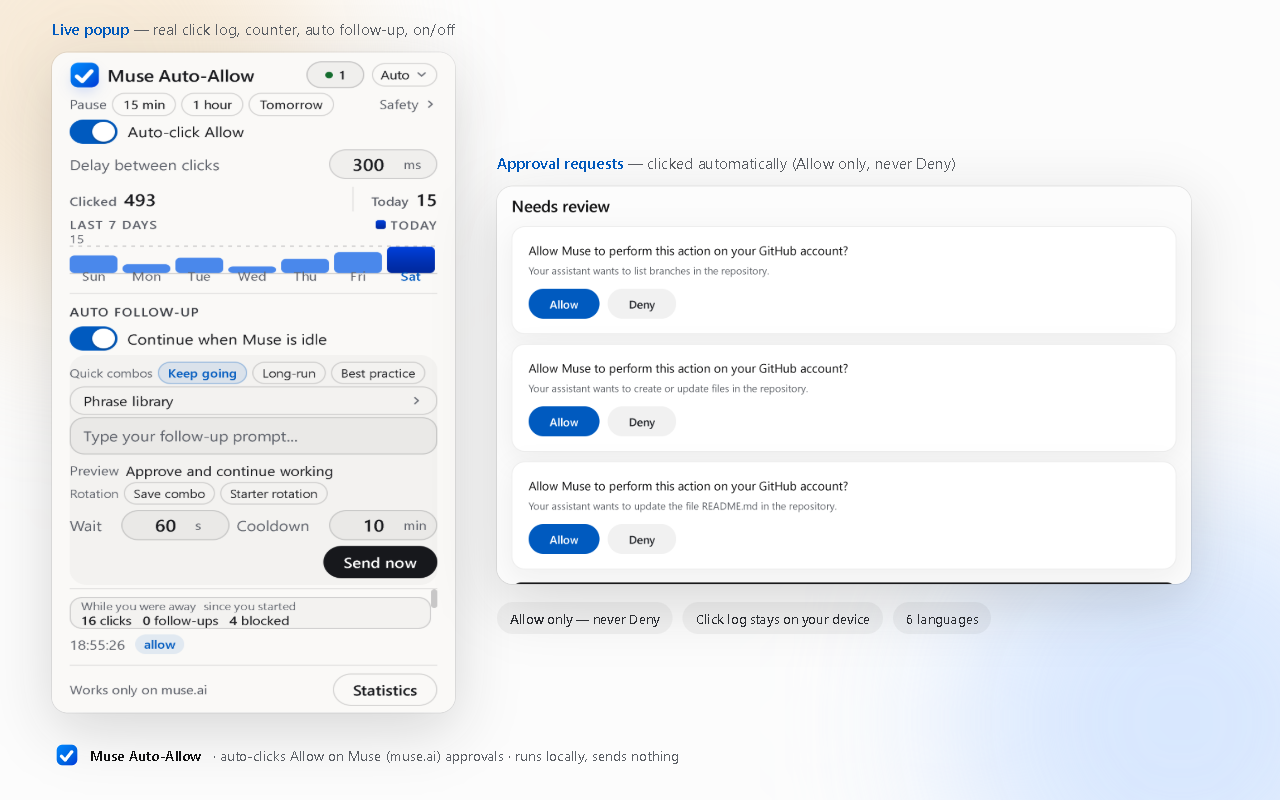
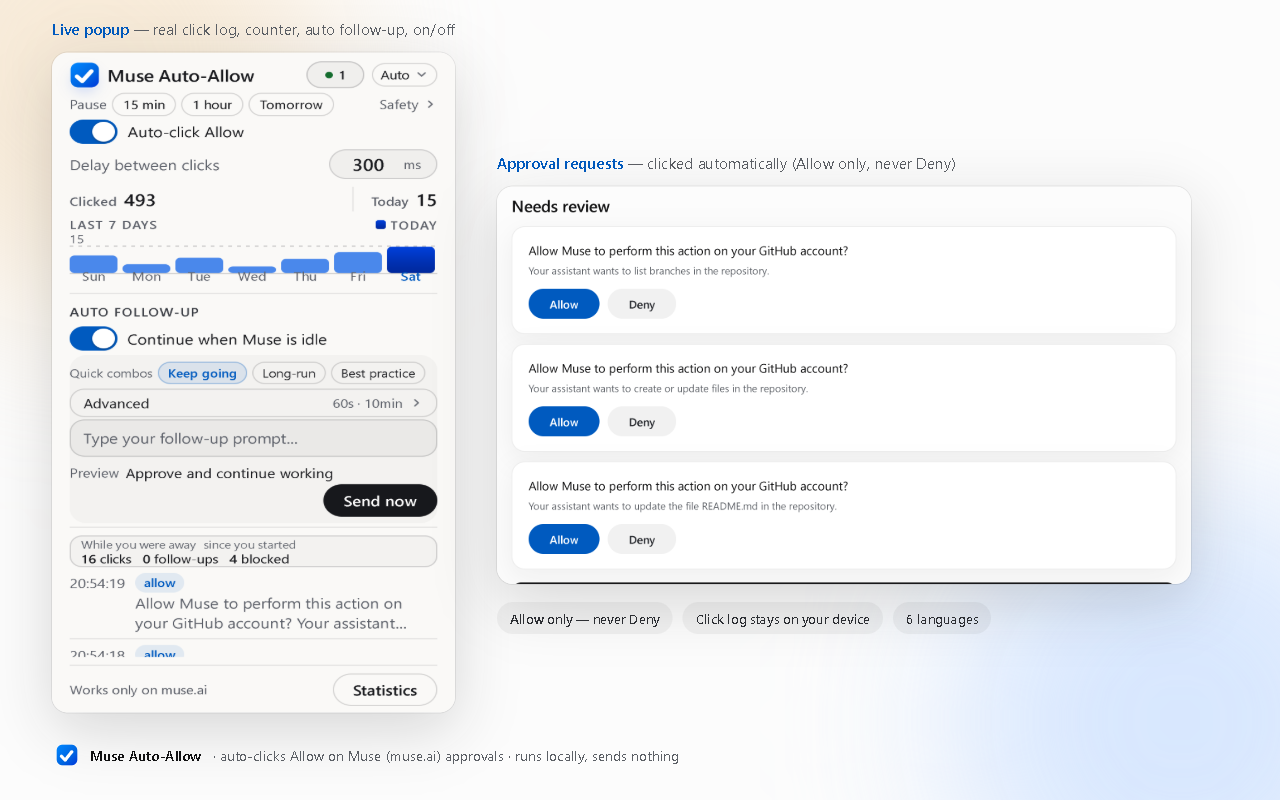
feat(popup): progressive disclosure for the follow-up advanced settings
One keyboard-accessible disclosure (#fadvbtn -> #fadv, aria-expanded + aria-controls,
Enter/Space opens, Escape closes and returns focus, state persisted as followupAdvancedOpen)
now holds the rows a user touches once: rotation, wait/cooldown, and the phrase-library entry.
The flagship controls stay visible (follow-up toggle, prompt, live preview, Send now) and a
compact collapsed summary shows the live state (Next: i/n + wait/cooldown, reusing the
existing followupRotateNext key), so nothing is invisible. The full-popup Safety sheet keeps
its exact geometry (CSS y 305..555 unchanged).
Deterministic acceptance: empty collapsed height 515px (was 571) with total-foot 509; every
state <=600 (full log 600, disclosure open 600, phrase sheet open 600, safety overlay 515,
language menu 515, wizard 515, follow-up-off gated 426); document.scrollWidth 320 in every
state; i18n worst-case sweep across en/vi/zh_CN/ja/ko/es keeps max right edge at the 306
content column with the summary never clipped (one new key followupAdvanced x6 locales, en
now 148 keys, parity green); changed contrast pairs pixel-measured in the real render (label
--ink on panel 15.86:1 light / 14.20:1 dark, summary --muted 5.63 / 7.16, chevron 4.51 /
6.07; the button's border hairline 1.39 / 1.59 is decorative and the state is carried by
aria-expanded + the chevron rotation, never by the border). Keyboard path proven with trusted
[…]

Changed region(s): [[0.0625, 0.5, 0.3438, 0.8438]]

diff --git a/extension/popup.js b/extension/popup.js
@@ -193,6 +193,9 @@ let fRotItems = [];     // followupPrompts from storage (rotation list)
 let fRotIdx = 0;        // followupRotateIdx from storage
 let fGroupSaveFlash = false; // transient 'added' confirmation on the per-group save button
 let fGroupSaveTimer = null;
+let advancedOpen = false;    // progressive disclosure: persisted `followupAdvancedOpen` (default collapsed)
+let fIdleMs = 60000;         // followupIdleMs, mirrored for the collapsed summary
+let fCoolMs = 600000;        // followupCooldownMs, mirrored for the collapsed summary
 const fTextarea = () => $('fprompt');
 
 function fPreviewText() {
@@ -327,8 +330,43 @@ function fRender() {
   if (fSheetMode === 'rotation') fRenderRotList();
   const btn = $('flibbtn');
   if (btn) btn.setAttribute('aria-expanded', fSheetMode ? 'true' : 'false');
+  renderAdvancedSummary();
 }
-function fSheet(next) { fSheetMode = next; fRender(); }
+// ---- progressive disclosure: the follow-up settings a user touches once ----------
+// applyAdvancedUI reflects the persisted open state onto the group + its disclosure
+// button; while collapsed the button also carries a one-line summary of what is hidden
+// (rotation position + wait/cooldown), so nothing is invisible.
+function renderAdvancedSummary() {
+  const el = $('fadvsum');
+  if (!el) return;
+  const parts = [];
+  const n = fRotItems.length;
+  if (n) {
+    let idx = ((fRotIdx % n) + n) % n;
+    if (fAgg && fAgg.rotateCount === n && Number.isFinite(fAgg.rotateIdx)) idx = ((fAgg.rotateIdx % n) + n) % n;
+    parts.push(t('followupRotateNext', 'Next: $1/$2', [String(idx + 1), String(n)]));
+  }
+  parts.push(Math.max(1, Math.round(fIdleMs / 1000)) + 's');
+  parts.push(Math.max(1, Math.round(fCoolMs / 60000)) + 'min');
+  el.textContent = parts.join(' · ');
+}
+function applyAdvancedUI() {
+  const grp = $('fadv'), btn = $('fadvbtn'), sum = $('fadvsum');
+  const gated = !!($('followupEnabled') && !$('followupEnabled').checked);
+  const open = advancedOpen && !gated;
+  if (grp) grp.hidden = !open;
+  if (btn) btn.setAttribute('aria-expanded', open ? 'true' : 'false');
+  if (sum) sum.hidden = open; // the summary describes the HIDDEN state
+  renderAdvancedSummary();
+}
+function setAdvancedOpen(v) {
+  const next = !!v;
+  const changed = next !== advancedOpen;
+  advancedOpen = next;
+  applyAdvancedUI();
+  if (changed) { try { chrome.storage.local.set({ followupAdvancedOpen: next }); } catch { /* ignore */ } }
+}
+function fSheet(next) { fSheetMode = next; if (next) setAdvancedOpen(true); fRender(); }
 function applyFollowupUI(s) {
   const on = s.followupEnabled === true;
   const cb = $('followupEnabled');
@@ -362,10 +400,12 @@ function applyFollowupUI(s) {
   // ---- rotation list ----
   fRotItems = Array.isArray(s.followupPrompts) ? s.followupPrompts.filter((p) => typeof p === 'string' && p.trim()) : [];
   fRotIdx = Number.isInteger(s.followupRotateIdx) && s.followupRotateIdx >= 0 ? s.followupRotateIdx : 0;
+  fIdleMs = Number(s.followupIdleMs) || 60000;
+  fCoolMs = Number(s.followupCooldownMs) || 600000;
   const idle = $('fidle');
-  if (idle && document.activeElement !== idle) idle.value = Math.max(1, Math.round((Number(s.followupIdleMs) || 60000) / 1000));
+  if (idle && document.activeElement !== idle) idle.value = Math.max(1, Math.round(fIdleMs / 1000));
   const cool = $('fcool');
-  if (cool && document.activeElement !== cool) cool.value = Math.max(1, Math.round((Number(s.followupCooldownMs) || 600000) / 60000));
+  if (cool && document.activeElement !== cool) cool.value = Math.max(1, Math.round(fCoolMs / 60000));
   const btn = $('fsendnow');
   if (btn) {
     btn.disabled = !on;
@@ -382,7 +422,10 @@ function applyFollowupUI(s) {
   }
   const hint = $('fhint');
   if (hint) hint.hidden = on;
+  // progressive disclosure: the group's open state comes from storage (default collapsed)
+  advancedOpen = s.followupAdvancedOpen === true;
   fRender();
+  applyAdvancedUI();
   renderFollowupStatus(fAgg); // the toggle re-words the pill (Waiting vs Idle)
 }
 // Status pill: informative states only — Working / Sent HH:MM / Waiting (armed) / Idle.
@@ -405,6 +448,7 @@ function fstatHide() {
 function renderFollowupStatus(agg) {
   fAgg = agg || null;
   fRenderRot(); // the ping is the freshest source for the 'Next: i/n' line
+  renderAdvancedSummary(); // ... and for the collapsed summary of the hidden state
   const cb = $('followupEnabled');
   const on = !!(cb && cb.checked);
   if (!agg) return fstatHide();
@@ -593,7 +637,7 @@ function refresh() {
   // followupSmart, followupSchedule, digestCounters) — absent = the engine's default.
   chrome.storage.local.get({ enabled: true, minDelayMs: 300, clickCount: 0, log: [], stats: null,
     followupEnabled: false, followupPrompt: PRESETS[0], followupIdleMs: 60000, followupCooldownMs: 600000,
-    followupChips: null, followupPrompts: [], followupRotateIdx: 0,
+    followupChips: null, followupPrompts: [], followupRotateIdx: 0, followupAdvancedOpen: false,
     pauseUntil: 0, dryRun: false, allowOnceMode: false, rules: null, followupSmart: null, followupSchedule: null,
     syncSettings: false, onboarded: false, digestCounters: null, lastDigestAt: 0 }, (s) => {
     $('enabled').checked = s.enabled !== false;
@@ -1080,6 +1124,12 @@ if (fTa) {
 }
 $('flibbtn').addEventListener('click', () => fSheet(fSheetMode === 'library' ? '' : 'library'));
 $('frotnext').addEventListener('click', () => fSheet(fSheetMode === 'rotation' ? '' : 'rotation'));
+// progressive disclosure: one control reveals the settings a user touches once
+$('fadvbtn').addEventListener('click', () => {
+  const next = !advancedOpen;
+  if (!next) fSheet(''); // collapsing the group closes any sheet it owns
+  setAdvancedOpen(next);
+});
 $('ftabs').addEventListener('click', (e) => {
   const b = e.target.closest('[data-g]');
   if (b) { fTab = b.dataset.g; fRender(); }
@@ -1170,7 +1220,9 @@ document.addEventListener('click', (e) => {
 document.addEventListener('keydown', (e) => {
   if (e.key !== 'Escape') return;
   if (safetyOpen) { setSafety(false); return; } // v1.8.0: Escape closes the Safety panel first
-  if (fSheetMode) fSheet('');
+  if (fSheetMode) { fSheet(''); return; }       // then the phrase-library sheet
+  // progressive disclosure: Escape closes the Advanced group and returns focus to its button
+  if (advancedOpen) { setAdvancedOpen(false); const b = $('fadvbtn'); if (b) b.focus(); }
 });
 $('fidle').addEventListener('change', () => {
   const v = Math.max(1, Math.min(3600, Math.round(Number($('fidle').value) || 60)));

diff --git a/extension/popup.html b/extension/popup.html
@@ -167,7 +167,8 @@
   /* off = collapsed settings + the disabled Send-now pill (explicit treatment + tooltip);
      the tinted panel shows only while the settings are open */
   .fpanel.gated { background: transparent; }
-  .fpanel.gated > .fblock:not(.sendrow), .fpanel.gated > .row, .fpanel.gated > .fsheet { display: none; }
+  .fpanel.gated > .fblock:not(.sendrow), .fpanel.gated > .row, .fpanel.gated > .fsheet,
+  .fpanel.gated > .fadvgroup { display: none; }
   .fblock { margin: 2px 0; }
   .fblock:first-child { margin-top: 0; }
   .fblock:last-child { margin-bottom: 0; }
@@ -213,6 +214,26 @@
   .flibbtn[aria-expanded="true"] .chev { transform: rotate(0deg); }
   .fcount { font-size: 10.5px; font-weight: 500; padding: 0 6px; border-radius: 999px;
             background: var(--accent-tint); color: var(--accent-text); }
+  /* Progressive disclosure — ONE control hides the follow-up settings a user touches
+     once (phrase library, rotation, wait/cooldown), so the popup opens calm; the
+     flagship controls (toggle, prompt, preview, Send now) stay visible. It is a real
+     button (aria-expanded + aria-controls), keyboard operable, Escape closes it and
+     returns focus; the open state persists (storage `followupAdvancedOpen`). While
+     collapsed it carries a compact one-line summary of what is hidden, so nothing is
+     invisible. Spacing sits on the spec ladder (margin 4 / 2, padding 3px 10px). */
+  .fadvhead { margin: 4px 0 0; }
+  .fadvbtn { display: flex; align-items: center; gap: 6px; width: 100%; box-sizing: border-box;
+             font: inherit; font-size: 12px; text-align: left; background: transparent; color: var(--ink);
+             border: 1px solid var(--stroke); border-radius: 12px; padding: 3px 10px; cursor: pointer;
+             transition: background var(--dur-1) var(--ease-out), border-color var(--dur-1) var(--ease-out); }
+  .fadvbtn:hover { background: var(--fill); border-color: var(--stroke-hover); }
+  .fadvlabel { flex: none; }
+  /* the collapsed summary: one line, tabular, ellipsised — it can never push the row */
+  .fadvsum { flex: 1 1 auto; min-width: 0; text-align: right; font-size: 11px; color: var(--muted);
+             overflow: hidden; text-overflow: ellipsis; white-space: nowrap; font-variant-numeric: tabular-nums; }
+  .fadvbtn .chev { margin-left: 0; color: var(--muted); transform: rotate(-90deg); }
+  .fadvbtn[aria-expanded="true"] .chev { transform: rotate(0deg); }
+  .fadvgroup { margin: 2px 0 0; }
   /* the library/list sheet overlays the rows below it, so the popup height never grows
      while browsing (W1 discipline: <=600px). The sheet CLIPS to its own box and the
      phrase/selection area scrolls internally, so a long selection can never push the
@@ -490,6 +511,14 @@
         <button type="button" class="qbtn" id="fq1" data-i18n="followupQuick2">Long-run</button>
         <button type="button" class="qbtn" id="fq2" data-i18n="followupQuick3">Best practice</button>
       </div>
+      <div class="fblock fadvhead">
+        <button type="button" class="fadvbtn" id="fadvbtn" aria-expanded="false" aria-controls="fadv">
+          <span class="fadvlabel" data-i18n="followupAdvanced">Advanced</span>
+          <span class="fadvsum" id="fadvsum"></span>
+          <svg class="chev" viewBox="0 0 24 24" aria-hidden="true"><path d="M6 9l6 6 6-6" fill="none" stroke-width="2.6" stroke-linecap="round" stroke-linejoin="round"/></svg>
+        </button>
+      </div>
+      <div class="fadvgroup" id="fadv" hidden>
       <div class="fblock">
         <button type="button" class="flibbtn" id="flibbtn" aria-expanded="false" aria-controls="flibsheet">
           <span data-i18n="followupLibrary">Phrase library</span><span class="fcount" id="flibcount" hidden></span>
@@ -508,8 +537,6 @@
         </div>
         <div class="fprev"><span class="plabel" data-i18n="followupPreview">Preview</span><span class="fprevtext" id="fprevA"></span></div>
       </div>
-      <div class="fblock"><textarea id="fprompt" class="tbox" rows="1" placeholder="Type your follow-up prompt…" data-i18n-ph="followupCustomPlaceholder"></textarea></div>
-      <div class="fblock fprev"><span class="plabel" data-i18n="followupPreview">Preview</span><span class="fprevtext" id="fprevB" aria-live="polite" aria-atomic="true"></span></div>
       <div class="fblock frot" id="frotrow">
         <span class="fqlabel muted" data-i18n="followupRotateLabel">Rotation</span>
         <button type="button" class="qbtn" id="frotadd" data-i18n="followupRotateSave">Save combo</button>
@@ -522,6 +549,9 @@
         <label class="muted" for="fcool" data-i18n="followupCooldownShort">Cooldown</label>
         <span class="numwrap"><input type="number" id="fcool" min="1" max="1440" step="1"><span class="unit muted">min</span></span>
       </div>
+      </div>
+      <div class="fblock"><textarea id="fprompt" class="tbox" rows="1" placeholder="Type your follow-up prompt…" data-i18n-ph="followupCustomPlaceholder"></textarea></div>
+      <div class="fblock fprev"><span class="plabel" data-i18n="followupPreview">Preview</span><span class="fprevtext" id="fprevB" aria-live="polite" aria-atomic="true"></span></div>
       <div class="fblock sendrow" id="fsendrow"><span class="fsendnote" id="fsendnote" role="status"></span><button class="btn" id="fsendnow" data-i18n="followupSendNow">Send now</button></div>
     </div>
   </div>

diff --git a/assets/quiet-luxury-mockup.html b/assets/quiet-luxury-mockup.html
@@ -146,6 +146,16 @@
   .fcount { font-size: 10.5px; font-weight: 500; padding: 0 6px; border-radius: 999px;
             background: var(--accent-tint); color: var(--accent-text); }
   .flibbtn .chev { margin-left: auto; color: var(--muted); }
+  /* progressive disclosure: one control hides the follow-up settings a user touches once
+     (phrase library, rotation, wait/cooldown); collapsed it carries a one-line summary */
+  .fadvhead { margin-top: 7px; }
+  .fadvbtn { display: flex; align-items: center; gap: 6px; width: 100%; box-sizing: border-box; font: inherit;
+             font-size: 12px; text-align: left; background: transparent; color: var(--ink);
+             border: 1px solid var(--stroke); border-radius: 12px; padding: 4px 10px; cursor: pointer; }
+  .fadvlabel { flex: none; }
+  .fadvsum { flex: 1 1 auto; min-width: 0; text-align: right; font-size: 11px; color: var(--muted);
+             overflow: hidden; text-overflow: ellipsis; white-space: nowrap; font-variant-numeric: tabular-nums; }
+  .fadvbtn .chev { transform: rotate(-90deg); }
   .chev { width: 11px; height: 11px; flex: none; display: block; color: var(--muted); opacity: .9; }
   .chev path { stroke: currentColor; }
   .tbox { width: 100%; margin-top: 7px; background: var(--fill); color: var(--ink); border: 1px solid var(--stroke);
@@ -291,16 +301,11 @@
           <div class="fpanel">
             <div class="fquick"><span class="fqlabel muted">Quick combos</span>
               <button class="qbtn on">Keep going</button><button class="qbtn">Long-run</button><button class="qbtn">Best practice</button></div>
-            <button class="flibbtn">Phrase library<span class="fcount">4</span><svg class="chev" viewBox="0 0 24 24"><path d="M6 9l6 6 6-6" fill="none" stroke-width="2.6" stroke-linecap="round" stroke-linejoin="round"/></svg></button>
+            <div class="fadvhead">
+              <button class="fadvbtn"><span class="fadvlabel">Advanced</span><span class="fadvsum">Next: 1/3 &middot; 60s &middot; 10min</span><svg class="chev" viewBox="0 0 24 24"><path d="M6 9l6 6 6-6" fill="none" stroke-width="2.6" stroke-linecap="round" stroke-linejoin="round"/></svg></button>
+            </div>
             <textarea class="tbox" rows="1" placeholder="Type your follow-up prompt&hellip;"></textarea>
             <div class="fprev"><span class="plabel">Preview</span><span class="ptext">Approve and continue working</span></div>
-            <div class="frot"><span class="fqlabel muted">Rotation</span>
-              <button class="qbtn">Save combo</button><button class="qbtn">Starter rotation</button>
-              <span class="frotnext">Next: 1/3</span></div>
-            <div class="frow fset"><span class="muted">Wait</span>
-              <span class="numwrap">60<span class="unit">s</span></span>
-              <span class="muted">Cooldown</span>
-              <span class="numwrap">10<span class="unit">min</span></span></div>
             <div class="sendrow"><button class="btn">Send now</button></div>
           </div>
         </div>
@@ -377,16 +382,11 @@
           <div class="fpanel">
             <div class="fquick"><span class="fqlabel muted">Quick combos</span>
               <button class="qbtn on">Keep going</button><button class="qbtn">Long-run</button><button class="qbtn">Best practice</button></div>
-            <button class="flibbtn">Phrase library<span class="fcount">4</span><svg class="chev" viewBox="0 0 24 24"><path d="M6 9l6 6 6-6" fill="none" stroke-width="2.6" stroke-linecap="round" stroke-linejoin="round"/></svg></button>
+            <div class="fadvhead">
+              <button class="fadvbtn"><span class="fadvlabel">Advanced</span><span class="fadvsum">Next: 1/3 &middot; 60s &middot; 10min</span><svg class="chev" viewBox="0 0 24 24"><path d="M6 9l6 6 6-6" fill="none" stroke-width="2.6" stroke-linecap="round" stroke-linejoin="round"/></svg></button>
+            </div>
             <textarea class="tbox" rows="1" placeholder="Type your follow-up prompt&hellip;"></textarea>
             <div class="fprev"><span class="plabel">Preview</span><span class="ptext">Approve and continue working</span></div>
-            <div class="frot"><span class="fqlabel muted">Rotation</span>
-              <button class="qbtn">Save combo</button><button class="qbtn">Starter rotation</button>
-              <span class="frotnext">Next: 1/3</span></div>
-            <div class="frow fset"><span class="muted">Wait</span>
-              <span class="numwrap">60<span class="unit">s</span></span>
-              <span class="muted">Cooldown</span>
-              <span class="numwrap">10<span class="unit">min</span></span></div>
             <div class="sendrow"><button class="btn">Send now</button></div>
           </div>
         </div>

diff --git a/docs/QUIET_LUXURY_SPEC.md b/docs/QUIET_LUXURY_SPEC.md
@@ -417,5 +417,83 @@ Phase 1) and the Statistics page **5/10** (recorded 9/10) — the whole scale si
 the run the Phase-2 calibration used, and the same popup render swung 6 → 4 → 7 → 3 premium across four
 rounds (one pass hallucinated a "vour" typo that is not in the DOM). What the rounds *do* show is a
 real craft gain on the axis the tokens could not reach: light craft **8/10** (twice) vs the 4/10 the
-baseline re-skin scored, with the recurring defects now being frozen-intent items (pill language,
+the baseline re-skin scored, with the recurring defects now being frozen-intent items (pill language,
 no per-bar values, uppercase captions) rather than composition breakage.
+
+---
+
+## 11. Progressive disclosure — the follow-up ADVANCED group (2026-10-10)
+
+**Decision (defaulted, documented).** The owner was asked which direction to take the popup and did
+not answer; the defaulted decision is **progressive disclosure** — keep the top of the popup calm and
+move the follow-up settings a user touches once behind ONE disclosure. This addresses the recurring
+independent-review complaint ("it reads like a dense dashboard, not a premium popup") without touching
+the already-verified composition pass (`555f9f0`).
+
+**Scope.** Flagship controls stay visible: the follow-up toggle, the quick combos, the prompt
+textarea, the live preview, `Send now`. Behind the disclosure: the **rotation row**, the
+**wait/cooldown inputs** and the **`Phrase library` entry** (with its sheet).
+
+**Control.** `.fadvbtn` — a real `<button>` with `aria-expanded` + `aria-controls="fadv"`; keyboard
+operable (Tab reaches it; Enter/Space toggle), **Escape closes it and returns focus to the button**.
+State persists in the new storage key **`followupAdvancedOpen`** (default `false`).
+
+**Collapsed summary.** While collapsed the button carries a one-line summary of the hidden state —
+rotation position + wait/cooldown, composed from the EXISTING key `followupRotateNext` plus the unit
+glyphs: `Next: 1/3 · 60s · 10min`. Nothing is invisible. **One new i18n key** was unavoidable for the
+label (`followupAdvanced`, added to all 6 locales, parity green); the summary reuses existing keys.
+
+**Spacing.** The new row sits on the §2.5 ladder (margin 4/2, padding 3px 10px). Net effect is
+**shorter**: the follow-up-ON empty state measures **515px body / 509px total** (was 571 / 565) and
+every crowded state stays at the 600 cap.
+
+**Sheet geometry preserved.** `.fsheet` keeps `position:absolute; top:30px` against its `.fpanel`
+containing block, so it stays exactly where the verified `555f9f0` pass put it (305…555). Opening the
+sheet forces the group open (`fSheet(next)` → `setAdvancedOpen(true)`), so the library can never be
+reachable inside a collapsed group.
+
+### 11.1 Measured heights (≤600 in every state)
+
+| State | body | total (foot bottom) |
+|---|---|---|
+| empty (collapsed, default) | **515** | **509** |
+| full 12-entry log | 600 | 594 |
+| disclosure open | 600 | 594 |
+| phrase-library sheet open | 600 | 594 |
+| Safety overlay open | 515 | 509 |
+| language menu open | 515 | 509 |
+| onboarding wizard | 515 | 509 |
+
+`document.scrollWidth` stays **320** in every state. (`test/followup-e2e.mjs` reports 594/594/594 with
+`"ok": true` — its popup phase opens the library, which force-opens the group, so it measures the
+OPEN state; the 515/509 above is the shipped default.)
+
+### 11.2 Contrast (pixel-measured in the real 2x render)
+
+| Pair | Light | Dark |
+|---|---|---|
+| label (`--ink`) on the panel | **15.86:1** | **14.20:1** |
+| collapsed summary (`--muted`) on the panel | **5.63:1** (matches §5.2) | **7.16:1** |
+| chevron (`--muted`) on the panel | **4.51:1** | **6.07:1** |
+| button border hairline (`--stroke`) | 1.39:1 | 1.59:1 — decorative, same class as §5.4 |
+
+### 11.3 i18n sweep (6 locales, worst-case content)
+
+Worst case seeded: 12 rotation items, index 11, wait 3600s, cooldown 1440min. All six locales report
+`document.scrollWidth` **320**, no element past the **306** content column, and the summary not
+clipped: en 195 · vi 196 · zh_CN 223 · ja 199 · ko 223 · es 195 px (available ≈ 196–225).
+
+### 11.4 Keyboard path (real Chrome, trusted key events)
+
+Tab reaches the disclosure in 12 tabs; **Enter opens** (`aria-expanded=true`, group visible,
+`followupAdvancedOpen=true`); **Escape closes** (`aria-expanded=false`, group hidden, focus back on the
+button, `followupAdvancedOpen=false`); **Space also opens**.
+
+### 11.5 Directional vision (not a gate)
+
+Same session, same prompt, anchored by scoring the pre-change render too: **pre-change 4/10 premium ·
+5/10 craft; post-change 4/10 premium · 5/10 craft** — the instrument does not resolve the change
+(consistent with the charter's "Instrument calibration" finding). The reviewer's post-change defect
+list is shorter and it explicitly reads the new row ("Advanced row with right text
+Next: 1/3 · 60s · 10min"), but the score band is unchanged. Design acceptance is deterministic
+(§11.1–§11.4).

diff --git a/docs/UI_V18.md b/docs/UI_V18.md
@@ -171,3 +171,23 @@ Functional probe (own CDP harness): **58/58** checks — wizard steps and their 
 Suite results for this change: `node scripts/lint.mjs` **exit 0** (24 checks, i18n parity green over 6 locales), `node test/e2e.mjs` **exit 0**, `node test/followup-e2e.mjs` **exit 0** (heights unchanged at 572 / 594 / 594), `node test/lang-switch-e2e.mjs` **exit 0** (36/36 checks).
 
 **Deleted:** `extension/lang-switch.mjs` — the earlier standalone draft (unwired, wrong approach: it never overrode `chrome.i18n`, and it injected hardcoded dark colours). The feature lives in `popup.js` / `popup.html` only.
+
+---
+
+## 8. Progressive disclosure — the follow-up Advanced group (2026-10-10)
+
+**Ask / decision.** The popup read as a dense dashboard (the recurring independent-review complaint). The owner was asked which direction to take it and did not answer, so the **defaulted, documented** decision is **progressive disclosure**: the follow-up settings a user touches once move behind ONE disclosure, while the flagship controls stay visible.
+
+**What stays visible:** the follow-up toggle, the quick combos, the prompt textarea, the live preview, `Send now`. **What moves behind the disclosure (`#fadv`, hidden by default):** the rotation row, the wait/cooldown inputs, and the `Phrase library` entry (with its sheet).
+
+**The control.** `.fadvbtn` (`#fadvbtn`) is a real `<button>` with `aria-expanded` + `aria-controls="fadv"`; Tab-reachable, Enter/Space toggle it, **Escape closes it and returns focus to the button**. While collapsed it carries a one-line summary of the hidden state — `Next: 1/3 · 60s · 10min`, from the status ping's rotation position + the stored wait/cooldown — so nothing is invisible. The summary reuses the existing `followupRotateNext` key plus the unit glyphs.
+
+**Storage.** New key `followupAdvancedOpen` in `chrome.storage.local` (default `false`) — read in `refresh()`'s defaults like the other follow-up keys, written only by the disclosure, so the open state survives a reopen. The popup still writes no key outside the §2 table + this one.
+
+**i18n.** One new key, `followupAdvanced` ("Advanced"), is the only addition; it is in all 6 locales (en now **148** keys) and `scripts/lint.mjs` parity stays green.
+
+**Sheet geometry.** `.fsheet` is unchanged (`position:absolute; top:30px` against `.fpanel`), so the verified `555f9f0` overflow fix keeps its exact position. Opening the sheet **force-opens the group** (`fSheet(next)` → `setAdvancedOpen(true)`), so the library can never be reachable inside a collapsed group — which is also why `test/followup-e2e.mjs` now measures the OPEN state (594 / 594 / 594, all ≤ 600).
+
+**Heights (measured, real Chrome CDP).** Collapsed empty **515px body / 509px total** (was 571 / 565); full log / disclosure open / sheet open all 600; Safety overlay and language menu 515; `document.scrollWidth` stays 320. Full table + the contrast and i18n sweeps: `docs/QUIET_LUXURY_SPEC.md` §11.
+
+**Suites.** `lint` exit 0 · `e2e` exit 0 · `followup-e2e` exit 0 (119 checks, `"ok": true`, no failed check) · `lang-switch-e2e` exit 0 · `background-unit` 29/29.
